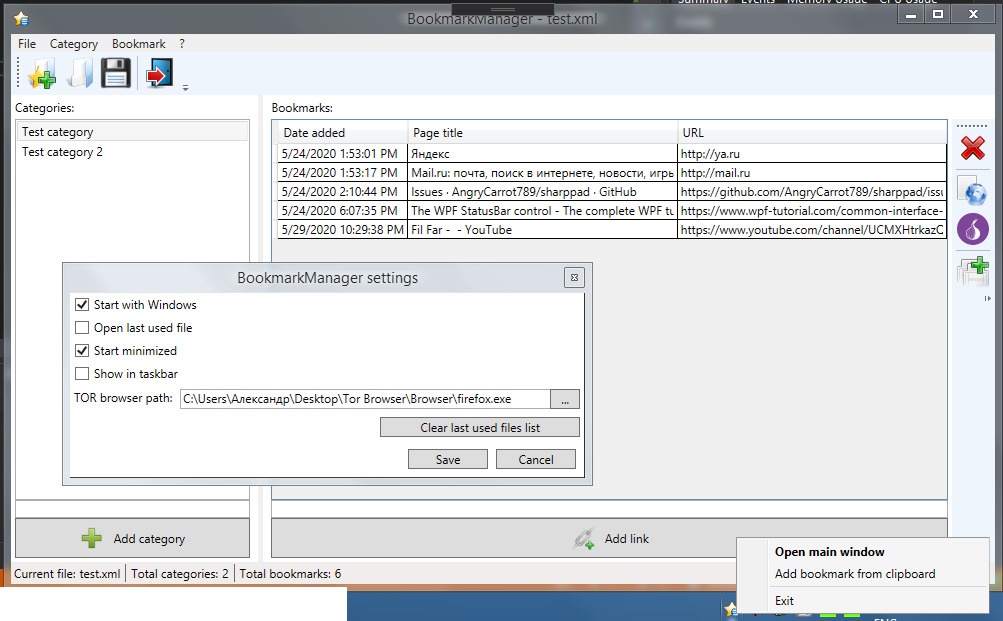
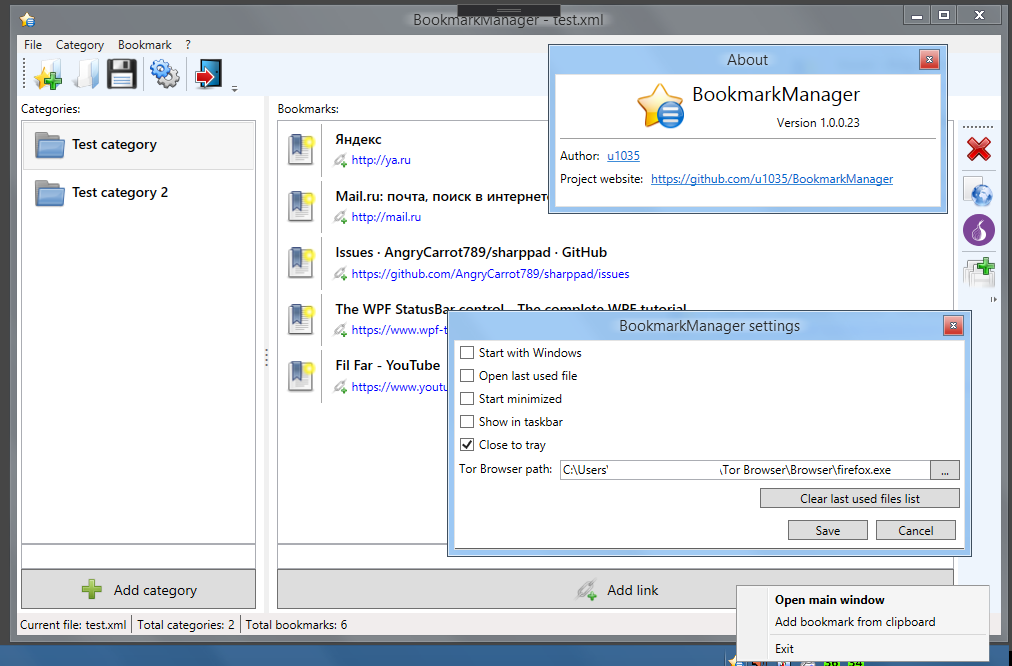
Added DataTemplates for bookmarks, minor UI changes, screenshot updated

diff --git a/BookmarkManager/Views/MainWindow.xaml b/BookmarkManager/Views/MainWindow.xaml
@@ -5,6 +5,7 @@
         xmlns:mc="http://schemas.openxmlformats.org/markup-compatibility/2006"
         xmlns:viewModels="clr-namespace:BookmarkManager.ViewModels"
         xmlns:tb="http://www.hardcodet.net/taskbar"
+        xmlns:models="clr-namespace:BookmarkManager.Models"
         mc:Ignorable="d" Icon="../Resources/appicon.png"
         Title="{Binding MainWindowTitle}"
         WindowState="{Binding Config.MainWindowState, Mode=TwoWay}"
@@ -22,6 +23,36 @@
             <Separator />
             <MenuItem Header="Exit" Command="{Binding ExitCommand}"></MenuItem>
         </ContextMenu>
+
+        <DataTemplate x:Key="CategoryTemplate">
+            <StackPanel Margin="5" Orientation="Horizontal">
+                <Image Source="../Resources/folder.png"></Image>
+                <TextBlock FontSize="14" FontWeight="Medium" Margin="5" Text="{Binding}"></TextBlock>
+            </StackPanel>
+        </DataTemplate>
+
+        <DataTemplate x:Key="BookmarkItemTemplate" DataType="models:Bookmark">
+            <Grid>
+                <Grid.ColumnDefinitions>
+                    <ColumnDefinition Width="*"/>
+                    <ColumnDefinition Width="10"/>
+                    <ColumnDefinition Width="4*"/>
+                </Grid.ColumnDefinitions>
+
+                <Image Grid.Row="0" Source="../Resources/newrecord.png"></Image>
+
+                <!--Vertical separator-->
+                <Rectangle Grid.Column="1" VerticalAlignment="Stretch" Fill="DarkGray" Width="1"/>
+
+                <StackPanel Grid.Column="2" Margin="5">
+                    <TextBlock Margin="4 0 0 0" FontSize="14" FontWeight="Medium" Text="{Binding PageTitle}"></TextBlock>
+                    <StackPanel Orientation="Horizontal">
+                        <Image Source="../Resources/addlink.png" Height="16"></Image>
+                        <TextBlock Margin="4" Foreground="Blue" Text="{Binding Url}"></TextBlock>
+                    </StackPanel>
+                </StackPanel>
+            </Grid>
+        </DataTemplate>
 
     </Window.Resources>
     <Window.DataContext>
@@ -154,12 +185,17 @@
             </Grid.ColumnDefinitions>
 
             <TextBlock Grid.Row="0" Margin="4">Categories:</TextBlock>
-            <ListBox Grid.Row="1" Margin="4 0 4 0" ItemsSource="{Binding CurrentBookmarkStorage.Categories}" IsEnabled="{Binding BookmarkStorageLoaded}" SelectedItem="{Binding SelectedCategory}"></ListBox>
-            <TextBox Grid.Row="2" Margin="4 0 4 0" VerticalContentAlignment="Center" HorizontalAlignment="Stretch" HorizontalContentAlignment="Right" IsEnabled="{Binding BookmarkStorageLoaded}" Text="{Binding CategoryText}"></TextBox>
+            <ListBox Grid.Row="1" Margin="4 0 4 0" 
+                     ItemsSource="{Binding CurrentBookmarkStorage.Categories}" 
+                     IsEnabled="{Binding BookmarkStorageLoaded}" 
+                     SelectedItem="{Binding SelectedCategory}" 
+                     ItemTemplate="{StaticResource CategoryTemplate}" />
+
+            <TextBox Grid.Row="2" Margin="4 0 4 0" FontSize="14" Height="25" VerticalContentAlignment="Center" HorizontalAlignment="Stretch" HorizontalContentAlignment="Right" IsEnabled="{Binding BookmarkStorageLoaded}" Text="{Binding CategoryText}"></TextBox>
             <Button Grid.Row="3" Margin="4 0 4 4" Height="40" Command="{Binding AddCategoryCommand}" IsEnabled="{Binding BookmarkStorageLoaded}" >
                 <StackPanel VerticalAlignment="Center" Orientation="Horizontal">
                     <Image Source="../Resources/addcat.png" Height="24" />
-                    <TextBlock VerticalAlignment="Center" Margin="10 0 0 0" Text="Add category" />
+                    <TextBlock VerticalAlignment="Center" Margin="10 0 0 0" FontSize="14" Text="Add category" />
                 </StackPanel>
             </Button>
         </Grid>
@@ -201,19 +237,19 @@
             </ToolBarTray>
 
             <TextBlock Grid.Row="0" Grid.Column="0" Margin="4">Bookmarks:</TextBlock>
-            <DataGrid Grid.Row="1" Grid.Column="0" Margin="4 0 4 0" IsEnabled="{Binding CategorySelected}" ItemsSource="{Binding DisplayingBookmarks}" SelectedItem="{Binding SelectedBookmark}" 
-                      AutoGenerateColumns="False" IsReadOnly="True" ColumnWidth="*">
-                <DataGrid.Columns>
-                    <DataGridTextColumn Binding="{Binding DateAdded}" Header="Date added" Width="Auto"/>
-                    <DataGridTextColumn Binding="{Binding PageTitle}" Header="Page title"/>
-                    <DataGridTextColumn Binding="{Binding Url}" Header="URL"/>
-                </DataGrid.Columns>
-            </DataGrid>
-            <TextBox Grid.Row="2" Grid.Column="0" Margin="4 0 4 0" VerticalContentAlignment="Center" HorizontalAlignment="Stretch" HorizontalContentAlignment="Right" IsEnabled="{Binding CategorySelected}" Text="{Binding UrlText}"></TextBox>
+            <ListBox Grid.Row="1" Grid.Column="0" Margin="4 0 4 0"
+                     IsEnabled="{Binding CategorySelected}" 
+                     ItemsSource="{Binding DisplayingBookmarks}" 
+                     SelectedItem="{Binding SelectedBookmark}"
+                     ItemTemplate="{StaticResource BookmarkItemTemplate}"
+                     MouseDoubleClick="BookmarksList_OnMouseDoubleClick"
+                     ToolTip="Double-click on bookmark or open it in default browser"></ListBox>
+
+            <TextBox Grid.Row="2" Grid.Column="0" Margin="4 0 4 0" FontSize="14" Height="25" VerticalContentAlignment="Center" HorizontalAlignment="Stretch" HorizontalContentAlignment="Right" IsEnabled="{Binding CategorySelected}" Text="{Binding UrlText}"></TextBox>
             <Button Grid.Row="3" Grid.Column="0" Margin="4 0 4 4" Height="40" IsEnabled="{Binding CategorySelected}" Command="{Binding AddLinkCommand}">
                 <StackPanel VerticalAlignment="Center" Orientation="Horizontal">
                     <Image Source="../Resources/addlink.png" Height="24" />
-                    <TextBlock VerticalAlignment="Center" Margin="10 0 0 0" Text="Add link" />
+                    <TextBlock VerticalAlignment="Center" Margin="10 0 0 0" FontSize="14" Text="Add link" />
                 </StackPanel>
             </Button>
         </Grid>

diff --git a/BookmarkManager/Views/MainWindow.xaml.cs b/BookmarkManager/Views/MainWindow.xaml.cs
@@ -1,4 +1,8 @@
 using System.ComponentModel;
+using System.Diagnostics;
+using System.Windows.Controls;
+using System.Windows.Input;
+using System.Windows.Navigation;
 using BookmarkManager.ViewModels;
 
 namespace BookmarkManager.Views
@@ -17,6 +21,14 @@ namespace BookmarkManager.Views
         {
             ((MainViewModel)DataContext).SaveCurrentBookmarkStorage();
             ((MainViewModel)DataContext).Config.SaveConfig();
+        }
+
+        private void BookmarksList_OnMouseDoubleClick(object sender, MouseButtonEventArgs e)
+        {
+            if (sender is ListBox listbox)
+                if (listbox.SelectedItem != null)
+                    if (this.DataContext is MainViewModel mainVm)
+                        mainVm.OpenInDefaultBrowser();
         }
     }
 }

diff --git a/BookmarkManager/Properties/AssemblyInfo.cs b/BookmarkManager/Properties/AssemblyInfo.cs
@@ -49,5 +49,5 @@ using System.Windows;
 // You can specify all the values or you can default the Build and Revision Numbers
 // by using the '*' as shown below:
 // [assembly: AssemblyVersion("1.0.*")]
-[assembly: AssemblyVersion("1.0.0.17")]
-[assembly: AssemblyFileVersion("1.0.0.17")]
+[assembly: AssemblyVersion("1.0.0.23")]
+[assembly: AssemblyFileVersion("1.0.0.23")]

diff --git a/BookmarkManager/ViewModels/MainViewModel.cs b/BookmarkManager/ViewModels/MainViewModel.cs
@@ -380,7 +380,7 @@ namespace BookmarkManager.ViewModels
             SaveCurrentBookmarkStorage();
         }
 
-        private void OpenInDefaultBrowser()
+        internal void OpenInDefaultBrowser()
         {
             if (SelectedBookmark == null) return;
             Process.Start(SelectedBookmark.Url);
